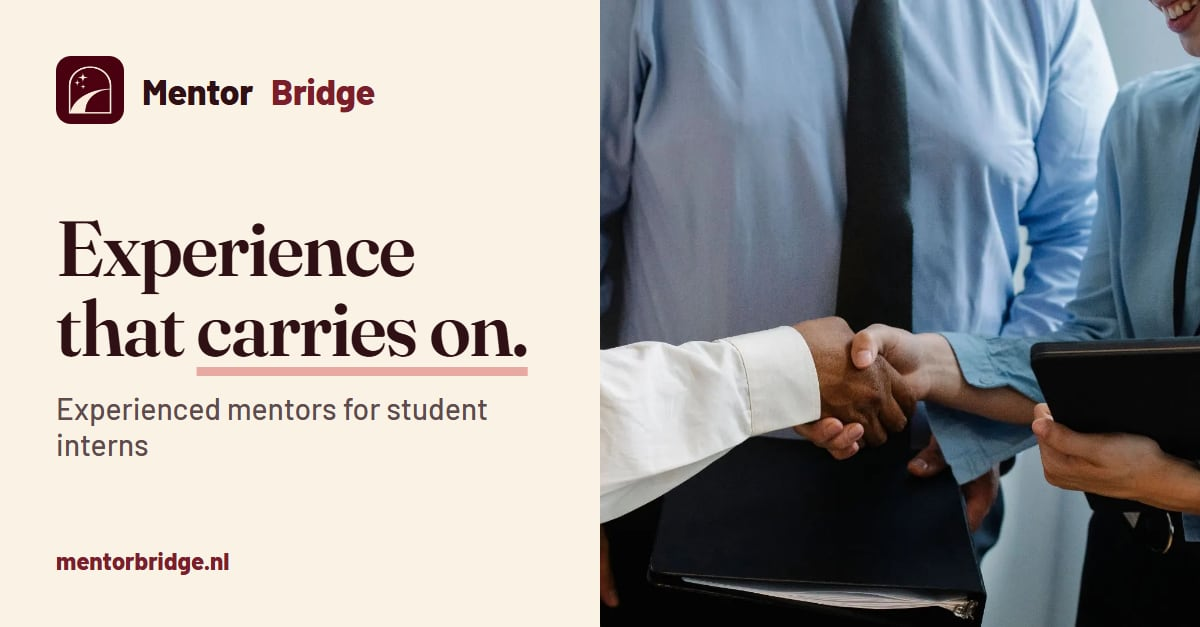
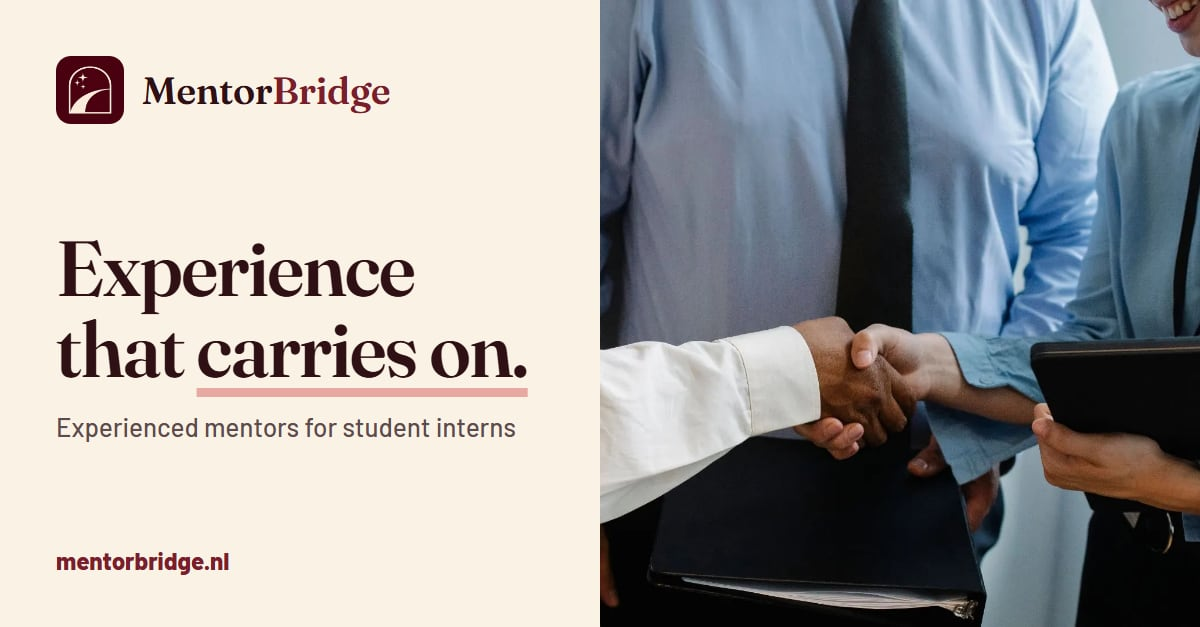
Wordmark in Fraunces, like the headings
- The MentorBridge wordmark in the header and footer uses Fraunces 600 instead of Barlow ExtraBold.
  Slightly smaller below 640 px so the header keeps a 26 px gap at 412 px in Dutch.
- Link previews re-rendered: wordmark in Fraunces, no gap between "Mentor" and "Bridge", subline on one line.

Changed region(s): [[0.0308, 0.3333, 0.4625, 0.7273], [0.0925, 0.1212, 0.3392, 0.1818]]

diff --git a/landing/og-template/og.html b/landing/og-template/og.html
@@ -17,20 +17,20 @@
       html, body { margin: 0; width: 1200px; height: 627px; overflow: hidden; }
       body { display: grid; grid-template-columns: 600px 600px; background: #faf2e5; color: #2e1015; font-family: 'Barlow', Arial, sans-serif; }
       .band { display: flex; flex-direction: column; justify-content: space-between; padding: 56px 56px 52px; }
-      .logo { display: flex; align-items: center; gap: 18px; font-size: 36px; font-weight: 800; letter-spacing: -0.01em; }
+      .logo { display: flex; align-items: center; gap: 18px; font-family: 'Fraunces', Georgia, serif; font-size: 38px; font-weight: 600; letter-spacing: -0.01em; }
       .logo img { width: 68px; height: 68px; }
-      .logo span { color: #7b1e2b; }
+      .logo .accent { color: #7b1e2b; }
       .text { display: flex; flex-direction: column; gap: 22px; }
       h1 { margin: 0; font-family: 'Fraunces', Georgia, serif; font-size: 78px; font-weight: 600; line-height: 1.03; letter-spacing: -0.02em; }
       .underline { text-decoration: underline; text-decoration-color: #e8a9a2; text-decoration-thickness: 0.12em; text-underline-offset: 0.14em; }
-      p { margin: 0; font-size: 30px; font-weight: 500; color: #5e4b4d; }
+      p { margin: 0; font-size: 26px; font-weight: 500; color: #5e4b4d; }
       .url { font-size: 24px; font-weight: 800; color: #7b1e2b; }
       .photo { background: #f4e7d6 center / cover no-repeat; }
     </style>
   </head>
   <body>
     <div class="band">
-      <div class="logo"><img src="/icon.png" alt="" />Mentor<span>Bridge</span></div>
+      <div class="logo"><img src="/icon.png" alt="" /><span>Mentor<span class="accent">Bridge</span></span></div>
       <div class="text">
         <h1 id="headline"></h1>
         <p id="sub"></p>

diff --git a/landing/src/style.css b/landing/src/style.css
@@ -81,7 +81,7 @@
   body { @apply bg-cream font-sans text-lg leading-relaxed text-ink antialiased; }
   h1, h2, h3 { text-wrap: balance; }
   /* Headings in Fraunces: only weight 600 is loaded, so never fake a bolder one. */
-  .hero-title, .h2, .h3, .features h3, .prose-page h2 { font-synthesis: none; }
+  .hero-title, .h2, .h3, .features h3, .prose-page h2, .logo, .logo-light { font-synthesis: none; }
   p { text-wrap: pretty; }
 
   :focus-visible { @apply rounded-sm outline-3 outline-offset-3 outline-ink; }
@@ -141,10 +141,11 @@
   }
 
   /* ---------- Logo ---------- */
-  .logo { @apply flex items-center gap-3.5 text-2xl font-extrabold tracking-[-0.01em] text-ink no-underline sm:text-[1.7rem]; }
+  /* The wordmark uses the heading font (Fraunces 600), like the page headings. */
+  .logo { @apply flex items-center gap-3.5 font-serif text-[1.375rem] font-semibold tracking-[-0.01em] text-ink no-underline sm:text-[1.7rem]; }
   .logo img { @apply size-12 rounded-2xl sm:size-14; }
   .logo-accent { @apply text-accent; }
-  .logo-light { @apply flex items-center gap-3 text-2xl font-extrabold tracking-[-0.01em] text-ink no-underline; }
+  .logo-light { @apply flex items-center gap-3 font-serif text-2xl font-semibold tracking-[-0.01em] text-ink no-underline; }
   .logo-light img { @apply size-12 rounded-xl; }
 
   /* ---------- Header ---------- */

diff --git a/CHANGELOG.md b/CHANGELOG.md
@@ -29,7 +29,7 @@ All notable changes to MentorBridge. The format follows [Keep a Changelog](https
 - Field and choice borders are darker, so they reach 3:1 contrast (WCAG 1.4.11).
 - Page titles of at most 60 characters and descriptions of 140-160, built around what people search for. Section headings say what the section is about, for example "Questions and answers".
 - The platform app asks search engines not to index it.
-- Headings use Fraunces, a serif; body text and buttons stay Barlow. Both fonts are self-hosted, so the pages make no requests to Google. Anton, which wasn't used, is gone.
+- Headings and the MentorBridge wordmark (header, footer, link previews) use Fraunces, a serif; body text and buttons stay Barlow. Both fonts are self-hosted, so the pages make no requests to Google. Anton, which wasn't used, is gone.
 
 ## [0.3.4] - 2026-11-06
 
